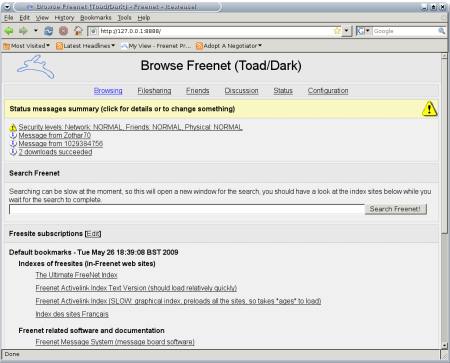
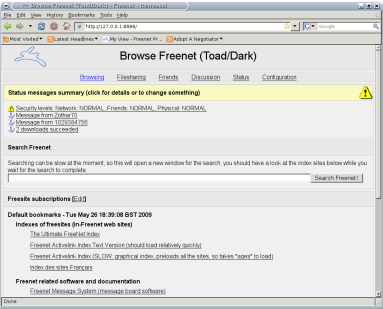
Shrink the image to the old width, thanks Ian

diff --git a/style.css b/style.css
@@ -18,7 +18,7 @@ pre {
     background: #fff;
     padding: 20px;
     font-family: Arial, Helvetica, sans-serif;
-    width: 900px;
+    width: 800px;
     margin: auto;
     border-left: #aaa 1px solid;
     border-right: #aaa 1px solid;

diff --git a/pages/en/index.php b/pages/en/index.php
@@ -15,7 +15,7 @@
 
       <div id="screenshots">
 	<a href="image/fN_screenshot.png"><img src="image/fN_screenshot_small.png"
-	alt="freenet screenshot" width="450" height="363" /></a>
+	alt="freenet screenshot" width="383" height="309" /></a>
       </div>      
 
       <div id="default">
